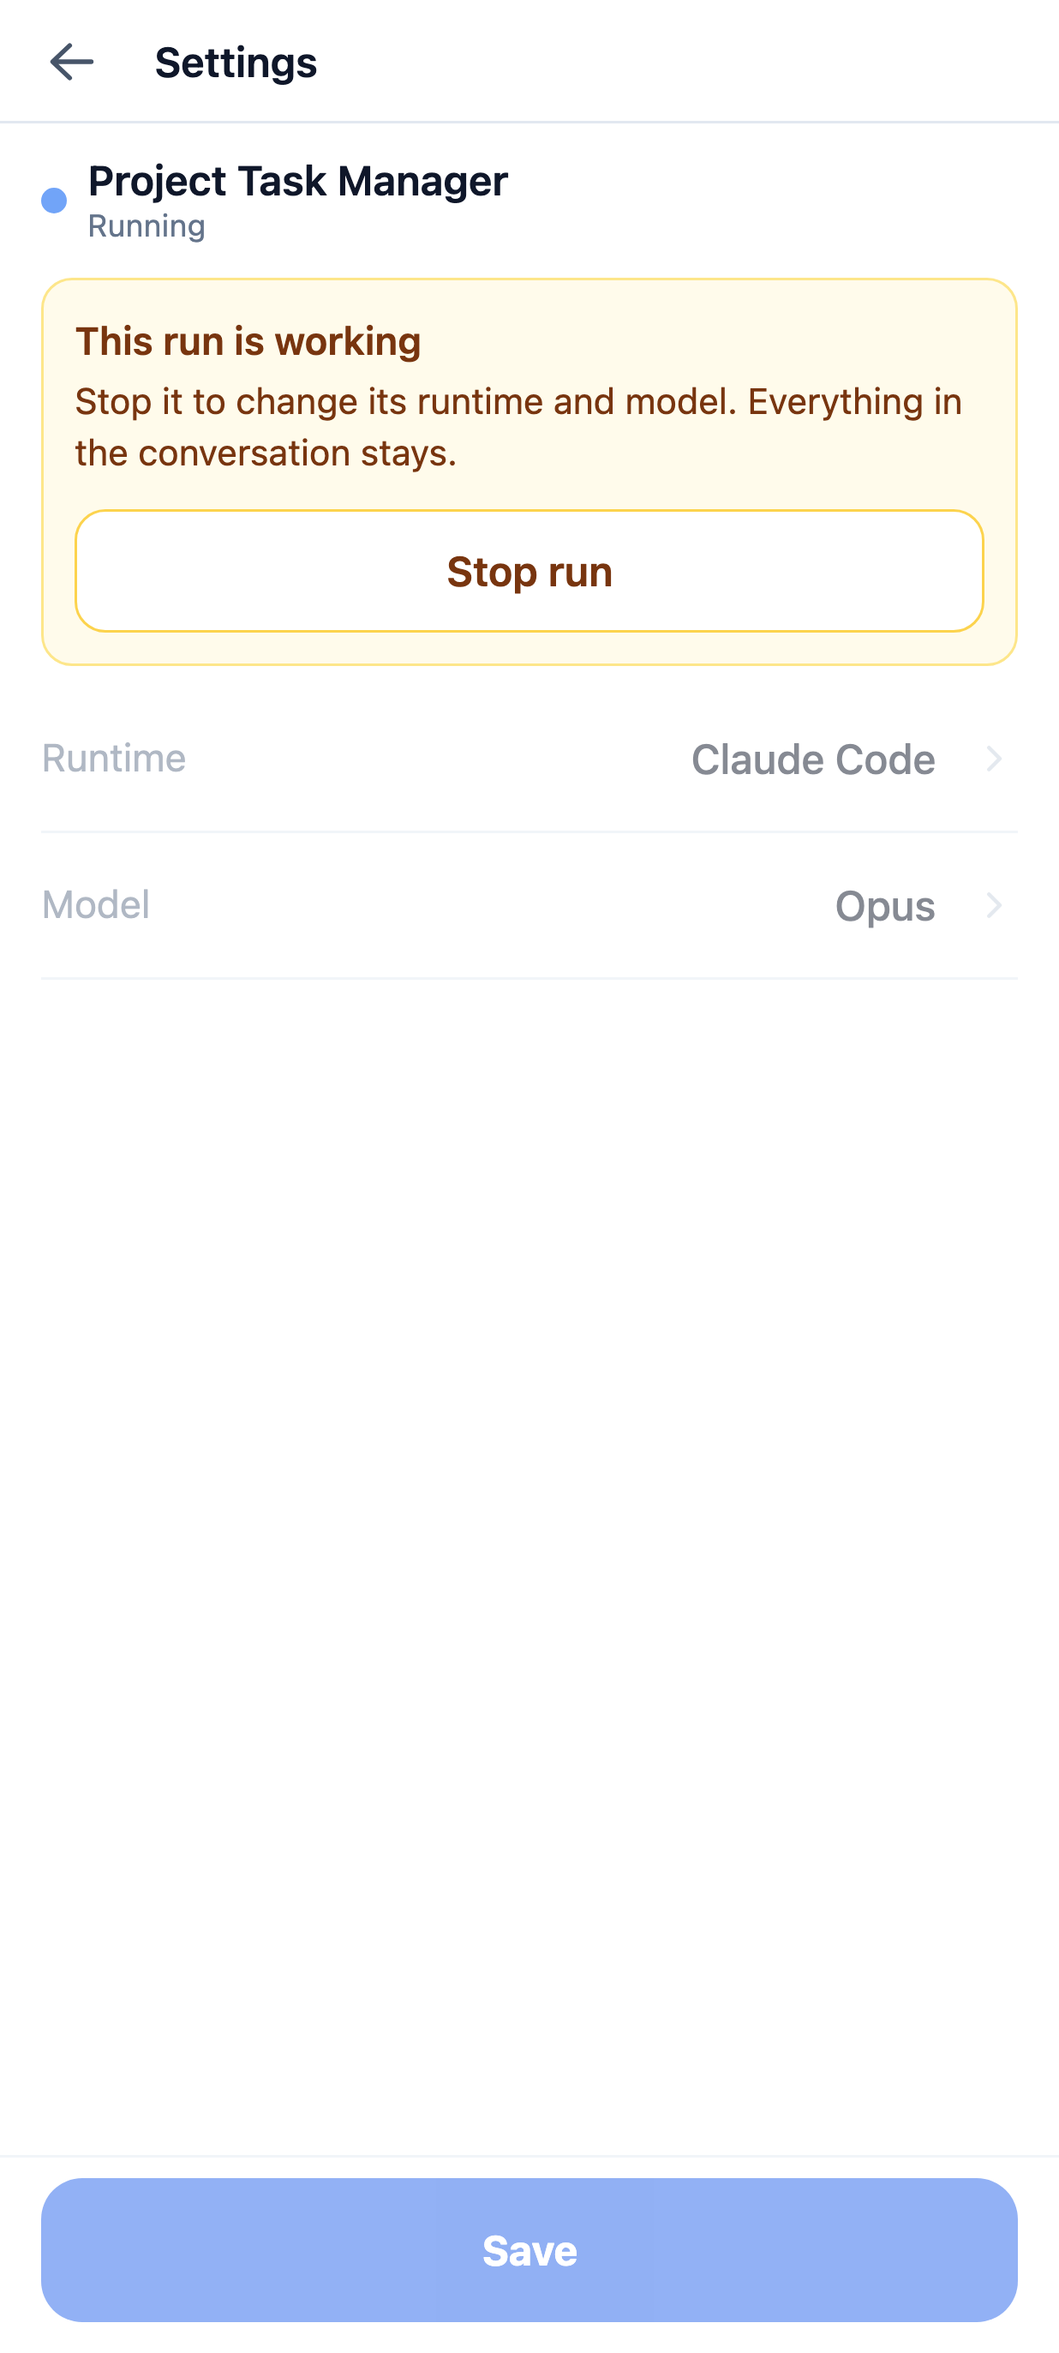
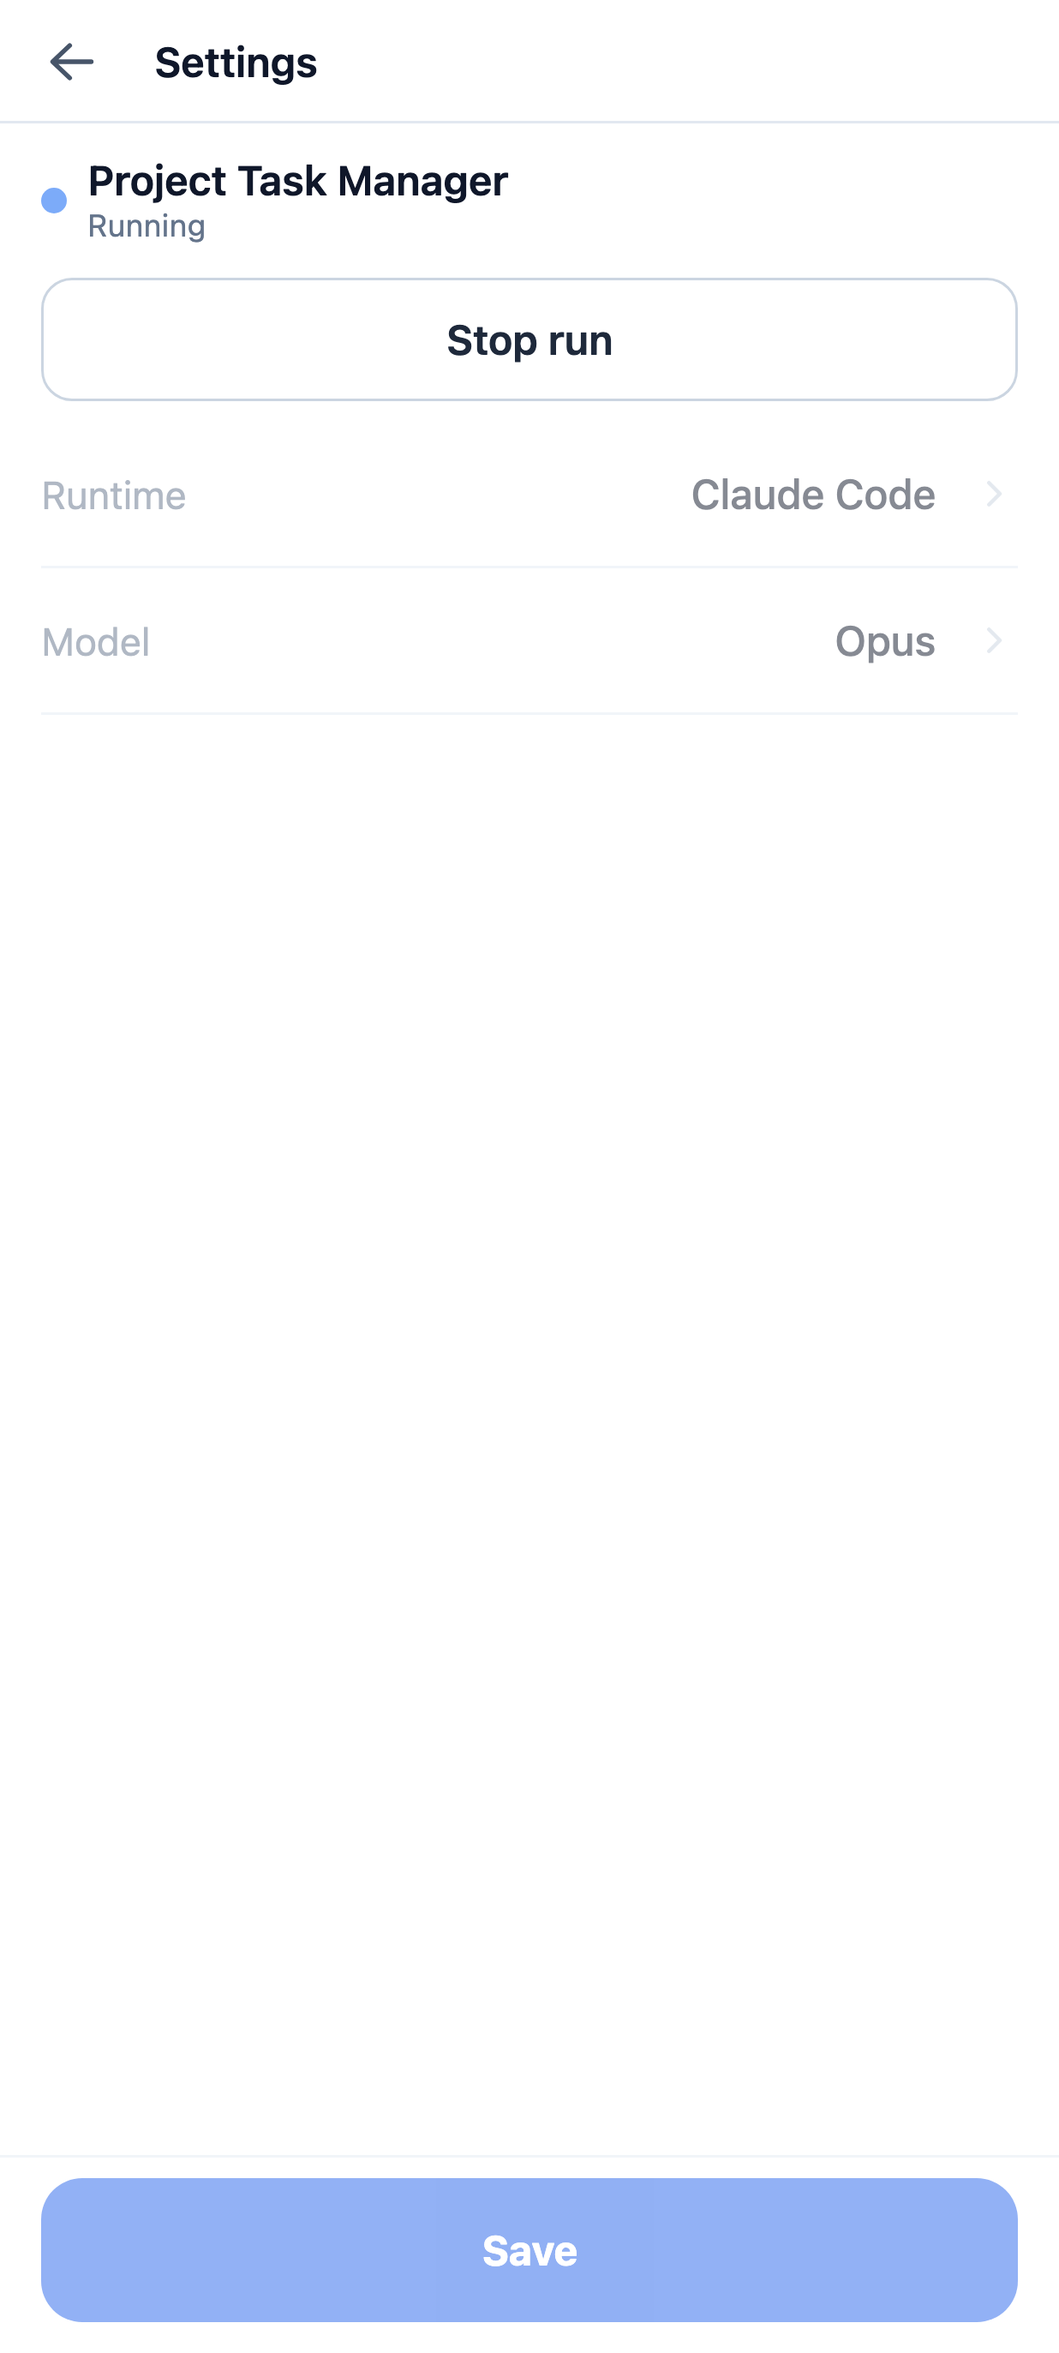
design(phone-conversation-readability-506): Stop run is one plain button, no card or sentences (review 6); VIS-016 and VIS-017 re-captured

diff --git a/components/mobile/views/MobileRunSettings.vue b/components/mobile/views/MobileRunSettings.vue
@@ -1,6 +1,6 @@
 <template>
   <!-- Settings (autobyteus-458, UIS-011): the open run's runtime and model, changed while the run is stopped. A running
-       run says "Stop run" first; a change applies at the next message (not said on the screen). A Team or Org member has its own settings: this screen is always the open member's. -->
+       run shows one "Stop run" button first; a change applies at the next message (not said on the screen). A Team or Org member has its own settings: this screen is always the open member's. -->
   <section class="fixed inset-0 z-20 flex h-[100dvh] flex-col bg-white text-slate-900" data-testid="mobile-run-settings">
     <MobileScreenBar title="Settings" @back="$emit('back')" />
 
@@ -13,16 +13,13 @@
         </span>
       </div>
 
-      <div v-if="working" class="mb-2 rounded-xl border border-amber-200 bg-amber-50 p-3" role="status" data-testid="mobile-run-settings-running">
-        <p class="text-[0.9375rem] font-semibold text-amber-900">This run is working</p>
-        <p class="mt-0.5 text-sm text-amber-900">Stop it to change its runtime and model. Everything in the conversation stays.</p>
-        <button
-          type="button"
-          class="mt-3 h-12 w-full rounded-xl border border-amber-300 bg-white text-base font-semibold text-amber-900 active:bg-amber-100 focus:outline-none focus-visible:ring-2 focus-visible:ring-blue-500"
-          data-testid="mobile-run-settings-stop"
-          @click="stopRun"
-        >Stop run</button>
-      </div>
+      <button
+        v-if="working"
+        type="button"
+        class="mb-2 h-12 w-full rounded-xl border border-slate-300 bg-white text-base font-semibold text-slate-800 active:bg-slate-100 focus:outline-none focus-visible:ring-2 focus-visible:ring-blue-500"
+        data-testid="mobile-run-settings-stop"
+        @click="stopRun"
+      >Stop run</button>
 
       <MobileChoiceSheet
         :model-value="draftRuntime"

diff --git a/tickets/done/phone-conversation-readability-506/ui-ux-spec.md b/tickets/done/phone-conversation-readability-506/ui-ux-spec.md
@@ -30,7 +30,7 @@
   4. **One phone-wide Text size control, four steps** (15, 17, 19, 21 px), in the run's ⋮ menu, applying at once.
   5. **Tool cards, code blocks, tables and the error card use the whole column.**
   6. **A message from another agent is shown as it is** (no arrow, no message-type line) on the phone.
-  7. **Settings** is one ⋮ menu entry and one small screen (Runtime, Model, Save) reusing the New run rows and sheets; a running run asks for Stop run first (the node only changes a stopped run). No explanatory or usage text: the screen stays as clean as the desktop's.
+  7. **Settings** is one ⋮ menu entry and one small screen (Runtime, Model, Save) reusing the New run rows and sheets; a running run shows one plain **Stop run** button above the rows (the node only changes a stopped run), as the desktop has one button. No explanatory or usage text anywhere on the screen.
 - Alternatives considered and why rejected (both were built and shown, then not approved): **A** a slim 24 px avatar column (text 356 px, 86%): keeps a column of space, less gain. **C** no avatars, the founder's messages in a soft blue block (388 px): widest and leanest, but loses who-spoke at a glance in runs with several speakers. Also rejected: a runtime/model summary under the menu entry; usage-limit marks and notes (the desktop has no such information, the founder's word); a saved card and an "applies at the next message" line (the founder's word); a Text size section in the Settings screen (the founder prefers the menu).
 
 ## Scope And Experience Goal
@@ -67,7 +67,7 @@
   - tool cards: full column width, at least 44 px tall.
   - code blocks and tables: full column width.
 - Typography: the conversation size `S` is the chosen step: Small 15, **Standard 17 (default)**, Large 19, Largest 21 px; line height 1.5 for everything in the conversation (`line-height: 1.5` on the feed). Inside the conversation: text-xs = 0.8 em (line 1.4), text-sm = 0.9 em (1.45), 0.9375 rem classes = 0.95 em, 0.6875 rem classes = 0.75 em. Speaker name: 13 px / 20 px, weight 600, `#475569` (not scaled). Markdown (all in em of `S`): paragraphs `margin 0 0 0.6em`; h1 1.4 em / 1.25, margin `0.9em 0 0.4em`; h2 1.25 em / 1.3, `0.9em 0 0.35em`; h3 and h4 1.1 em / 1.35, `0.8em 0 0.3em`; lists `padding-left 1.3em`, margin `0.4em 0 0.6em`, items `margin 0.2em 0`, `padding-left 0.15em`, nested lists margin `0.15em 0`; blockquote margin `0.7em 0`, `padding-left 0.8em`; code blocks `font-size 0.82em`, line 1.5, padding `0.65em 0.75em`, radius 8 px, margin `0.6em 0`; inline code 0.88 em; tables 0.9 em, cell padding `0.45em 0.6em`, margin `0.6em 0`. Text segments end with `margin-bottom 0.7em`. Other segments: the error card margin `0.6em 0`, padding `0.7em 0.8em`; the system notice `margin-bottom 0.7em`; the think segment margin `0.4em 0`, its content padding `0.7em 0.8em`; media margin `0.6em 0`.
-- Color values and semantic roles: unchanged from the baseline; new: speaker name `#475569`; Text size selected step `border-blue-600 / bg-blue-50 / text-blue-700`; running card `bg-amber-50`, border `amber-200`, text `amber-900`, Stop run button white with `amber-300` border and `amber-900` text; refusal card `bg-red-50`, border `red-200`, text `red-700`.
+- Color values and semantic roles: unchanged from the baseline; new: speaker name `#475569`; Text size selected step `border-blue-600 / bg-blue-50 / text-blue-700`; **Stop run** button white, 1 px `slate-300` border, `slate-800` semibold 16 px text, 48 px tall, radius 12 px, full width, 8 px above the rows (pressed `bg-slate-100`); refusal card `bg-red-50`, border `red-200`, text `red-700`.
 - Surfaces, borders, radii: composer box `rounded-xl` (12 px) with a 1 px `gray-200` border; **the text area's white background carries `rounded-b-[11px]`** so it no longer paints over the border at the two lower corners (see VIS-019 and Build notes). Menu card as the baseline (rounded-xl, border slate-200, shadow-lg, `w-72`). Settings cards `rounded-xl`; Save `rounded-2xl`.
 - Controls: the ⋮ menu gets **Settings** (a gear icon, 20 px, slate-500, same row as the others: 48 px tall, 15 px text) and, below a 1 px slate-200 divider, a **Text size** block: label 12 px medium slate-500; four buttons in a 4-column grid with 6 px gap, each 44 px tall, radius 8 px, 1 px border, the letter "A" at 13, 16, 19 and 22 px; the chosen one in the selected colors above.
 - Hover, active, focus, selected, disabled, validation, feedback: as the baseline's phone rows (active `bg-slate-100`, focus ring `blue-500`); Text size steps `aria-pressed`; Save disabled at 50% opacity; the running run's rows disabled at 50% (the New run row's disabled look).
@@ -99,7 +99,7 @@
 
 **UXJ-003.** ⋮ → Settings → Runtime and Model rows (value right, chevron; tap opens the sheet; one tap picks and closes, as New run). Choosing another runtime clears the model (it shows "Choose") and the model list is that runtime's; Save is enabled only when something changed and a model is chosen. Save → back to the conversation with nothing else said. ⋮ → Settings shows the new values. The next message the user sends runs on them (behavior of the node; not said on the screen). VIS-009, VIS-010, VIS-013 to VIS-015.
 
-**UXJ-004.** For a running (or starting) run the Settings screen shows the amber card "This run is working" with Stop run; Runtime and Model are disabled. Stop run (one tap, no confirmation: the founder: "stop run on the mobile phone we really need it") → the status line shows Stopped, the card disappears, the rows open. VIS-016, VIS-017.
+**UXJ-004.** For a running (or starting) run the Settings screen shows one **Stop run** button under the run's name (no card, no sentence); Runtime and Model are disabled. Stop run (one tap, no confirmation: the founder: "stop run on the mobile phone we really need it") → the status line shows Stopped, the card disappears, the rows open. VIS-016, VIS-017.
 
 **UXJ-005.** Save is refused (the chosen model is no longer offered): a red card under the rows with the node's words, "“<model>” is not offered by <runtime> now. Refresh the model list and choose again."; nothing changes; open the Model sheet, "Refresh models" drops the model, choose another, Save. VIS-012.
 
@@ -109,7 +109,7 @@
 | --- | --- | --- | --- | --- | --- |
 | UIS-001 | Run conversation (phone) | `/mobile` run screen | read and answer | bar (unchanged), conversation column, composer | VIS-001 to VIS-004, VIS-006 to VIS-008, VIS-015, VIS-018, VIS-019 |
 | UIS-002 | ⋮ menu | the bar's ⋮ | views and the text size | Artifacts, Files, Messages (members), Activity, **Settings**, divider, **Text size** | VIS-005 |
-| UIS-003 | Settings | `/mobile?screen=settings` (⋮ → Settings) | change the open run's runtime and model | 48 px bar "Settings" with ←; subject line (status dot, name, `<status> · in <Team>`); Runtime row; Model row; (running: the card first); refusal card under the rows; a footer with Save (56 px tall, full width, 16 px side margins, 12 px below a 1 px slate-100 line) | VIS-009 to VIS-014, VIS-016, VIS-017 |
+| UIS-003 | Settings | `/mobile?screen=settings` (⋮ → Settings) | change the open run's runtime and model | 48 px bar "Settings" with ←; subject line (status dot, name, `<status> · in <Team>`); Runtime row; Model row; (running: the Stop run button first); refusal card under the rows; a footer with Save (56 px tall, full width, 16 px side margins, 12 px below a 1 px slate-100 line) | VIS-009 to VIS-014, VIS-016, VIS-017 |
 
 ## Interaction And State Transitions
 
@@ -132,7 +132,7 @@
 | Settings, changed | picked | Save enabled | Save | ← | VIS-011 |
 | Settings, runtime changed | picked | Model "Choose" (blue), Save disabled | pick a model | ← | VIS-014 |
 | Settings, refused | Save refused | red card, node wording | Refresh models | | VIS-012 |
-| Settings, running/starting | open | amber card, rows disabled, Save disabled | Stop run | ← | VIS-016 |
+| Settings, running/starting | open | one Stop run button, rows disabled, Save disabled | Stop run | ← | VIS-016 |
 | Settings, after stop | Stop run | Stopped, rows open | choose | | VIS-017 |
 | Conversation, Small/Large/Largest | Text size | the whole conversation at 15/19/21 px | | | VIS-006 to VIS-008 |
 
@@ -151,9 +151,7 @@ Names follow the product's phone namespace (`mobile.nodeDesktop.title`): `mobile
 | --- | --- | --- |
 | `mobile.settings.menuEntry` / `mobile.settings.title` | Settings | ⋮ menu entry and the screen bar (one word; nothing under it) |
 | `mobile.settings.runtime` / `mobile.settings.model` | Runtime / Model | row labels: the New run keys |
-| `mobile.settings.runningTitle` | This run is working | amber card |
-| `mobile.settings.runningBody` | Stop it to change its runtime and model. Everything in the conversation stays. | amber card |
-| `mobile.settings.stopRun` | Stop run | button |
+| `mobile.settings.stopRun` | Stop run | the button (the only text of the running state) |
 | `mobile.settings.save` | Save | footer button |
 | `mobile.settings.textSize` | Text size | ⋮ menu label |
 | `mobile.settings.textSize.small` / `.standard` / `.large` / `.largest` | Small / Standard / Large / Largest | accessible names of the four steps (the "A" glyphs are not text) |
@@ -172,8 +170,8 @@ Not the phone's: the node's refusal messages (`run-model-selection-refusal.ts`),
 
 - Target: the phone's existing (WCAG AA contrast, 44 px targets, visible focus).
 - Focus: Settings opens with the screen bar's back button reachable first; sheets focus the current choice, return focus to the row on close (as New run). The ⋮ menu is unchanged and closes with Escape.
-- Roles: Text size block `role="group"` named "Text size", each step a button with `aria-pressed` and the step's name; the running card `role="status"`; the refusal `role="alert"`; the Save button's disabled state is real (`disabled`).
-- Contrast: speaker name `#475569` on white (7.6:1); amber and red cards use the product's 900/700 text on 50 backgrounds.
+- Roles: Text size block `role="group"` named "Text size", each step a button with `aria-pressed` and the step's name; the Stop run button is a plain button; the refusal `role="alert"`; the Save button's disabled state is real (`disabled`).
+- Contrast: speaker name `#475569` on white (7.6:1); the refusal card uses the product's red-700 text on red-50.
 
 ## Motion And Transitions
 
@@ -188,7 +186,7 @@ Not the phone's: the node's refusal messages (`run-model-selection-refusal.ts`),
 | the refusal | red card | one invented model ("Sonnet (earlier version)") is refused until "Refresh models" | the node's `MODEL_UNAVAILABLE` message in plain words |
 | the phone key | Settings | allowed | DEC-001: allowed; autobyteus-441 must keep stop and change on the phone's allowed list |
 | Text size | the four steps | stored in `localStorage` key `autobyteus.phone.textSize` | stored on the phone |
-| running runs | the card | a run the list shows as running opens as Running | the node's live status |
+| running runs | the Stop run button | a run the list shows as running opens as Running | the node's live status |
 
 Build notes (what engineering changes, in the product's `autobyteus-web`):
 - The phone styles are scoped to the phone runtime (`isMobileRemoteAccessRuntime()`, already used by the event monitor); the shared components stay as they are on the desktop. The speaker line (`conv-speaker`, hidden by default) and the turn grid are phone-only.
@@ -218,7 +216,7 @@ All images: `visual-references/`, captured from the running UI reference after t
 | VIS-013 | Settings, runtime list | 412 | `VIS-013-settings-runtime-list-412.png` |
 | VIS-014 | Settings, runtime changed (Model "Choose") | 412 | `VIS-014-settings-runtime-changed-412.png` |
 | VIS-015 | back in the conversation after Save | 412 | `VIS-015-after-save-conversation-412.png` |
-| VIS-016 | Settings, running run: Stop run | 412 | `VIS-016-settings-running-412.png` |
+| VIS-016 | Settings, running run: the Stop run button | 412 | `VIS-016-settings-running-412.png` |
 | VIS-017 | Settings, after Stop run | 412 | `VIS-017-settings-after-stop-412.png` |
 | VIS-018 | conversation at 360 px | 360 × 780 | `VIS-018-conversation-lists-360.png` |
 | VIS-019 | composer bottom edge, continuous corners (crop 412 × 155) | 412 | `VIS-019-composer-bottom-edge-412.png` |
@@ -227,7 +225,7 @@ Review evidence (not normative): `evidence/review-1/` (today versus options A, B
 
 ## Change Record (design changes from the baseline)
 
-DC-001 full-width text column and 12 px margins; DC-002 turn header (avatar and name once per speaker); DC-003 17 px / 1.5 type and the markdown and card values above; DC-004 four-step Text size in the ⋮ menu; DC-005 another agent's message without arrow or type line (phone only); DC-006 Settings entry and screen (458); DC-007 Stop run for a running run (458); DC-008 composer lower-corner fix; DC-009 a run the list shows as running opens as Running (UI reference only). Dropped after review: usage-limit marks and notes, the runtime/model summary under Settings, the saved card, the next-message line, the member note, a Text size section in Settings.
+DC-001 full-width text column and 12 px margins; DC-002 turn header (avatar and name once per speaker); DC-003 17 px / 1.5 type and the markdown and card values above; DC-004 four-step Text size in the ⋮ menu; DC-005 another agent's message without arrow or type line (phone only); DC-006 Settings entry and screen (458); DC-007 Stop run for a running run (458); DC-008 composer lower-corner fix; DC-009 a run the list shows as running opens as Running (UI reference only). Dropped after review: the amber "This run is working" card and its two sentences (the founder: one button, as on the desktop), usage-limit marks and notes, the runtime/model summary under Settings, the saved card, the next-message line, the member note, a Text size section in Settings.
 
 ## Open Decisions
 

diff --git a/tickets/done/phone-conversation-readability-506/product-ticket.md b/tickets/done/phone-conversation-readability-506/product-ticket.md
@@ -72,6 +72,10 @@ The founder: also remove "A change applies when you send your next message"; mak
 
 The founder: "I agree with your recommendation … I accepted your recommendation and I think the way neat is just stop run on the mobile phone we really need it." Approved: design B (speaker line once per speaker, full-width column), Standard 17 px with the four steps, Stop run on the phone (DEC-001 of 458: allowed). The alternatives A and C (branches and worktrees) were deleted; the live Tailscale entries 8444/8445/8446 were turned off (the status equals the one saved before: 443 and 8443 unchanged). Final artifacts: `ui-ux-spec.md` (VIS-001 to VIS-019 in `visual-references/`), `ui-reference-runbook.md`, `ui-text-inventory.md` (its table is the spec's "UI text").
 
+## Review 6 (2026-11-17, the founder, after the approval, on the Stop run view, 9:48 screenshot)
+
+The founder: far too unclean; follow the same cleaning principle: the desktop has just one button and now there are so many words. Change: the running state of Settings is one plain "Stop run" button under the run's name; the amber "This run is working" card and its two sentences are gone (keys `runningTitle`, `runningBody` removed). VIS-016 and VIS-017 re-captured. Evidence: `visual-references/VIS-016-settings-running-412.png`, `VIS-017-settings-after-stop-412.png`.
+
 ## Questions for the user (all answered)
 
 1. 506: A, B or C? (recommendation B). 2. Text size default 17 px and the four steps. 3. (answered by review 4: no usage-limit marks at all) 4. Is one tap on Stop run without a confirmation right (the desktop does the same)?

diff --git a/tickets/done/phone-conversation-readability-506/ui-text-inventory.md b/tickets/done/phone-conversation-readability-506/ui-text-inventory.md
@@ -9,9 +9,7 @@ Runtime, Model, Choose, Search runtimes/models; Refresh models) are the product'
 | --- | --- | --- | --- |
 | `mobile.settings.menuEntry` | Settings | ⋮ menu entry | the screen title is the same word: `mobile.settings.title` = Settings |
 | `mobile.settings.runtime` / `mobile.settings.model` | Runtime / Model | row labels | same words as New run: reuse its keys |
-| `mobile.settings.runningTitle` | This run is working | card for a running run | |
-| `mobile.settings.runningBody` | Stop it to change its runtime and model. Everything in the conversation stays. | same card | |
-| `mobile.settings.stopRun` | Stop run | button in that card | |
+| `mobile.settings.stopRun` | Stop run | the button (the only text of the running state) | |
 | `mobile.settings.save` | Save | button | |
 | `mobile.settings.textSize` | Text size | label in the ⋮ menu above the four steps | |
 | `mobile.settings.textSize.small` / `.standard` / `.large` / `.largest` | Small / Standard / Large / Largest | accessible names of the four steps in the menu (the "A" glyphs are not text) | |
